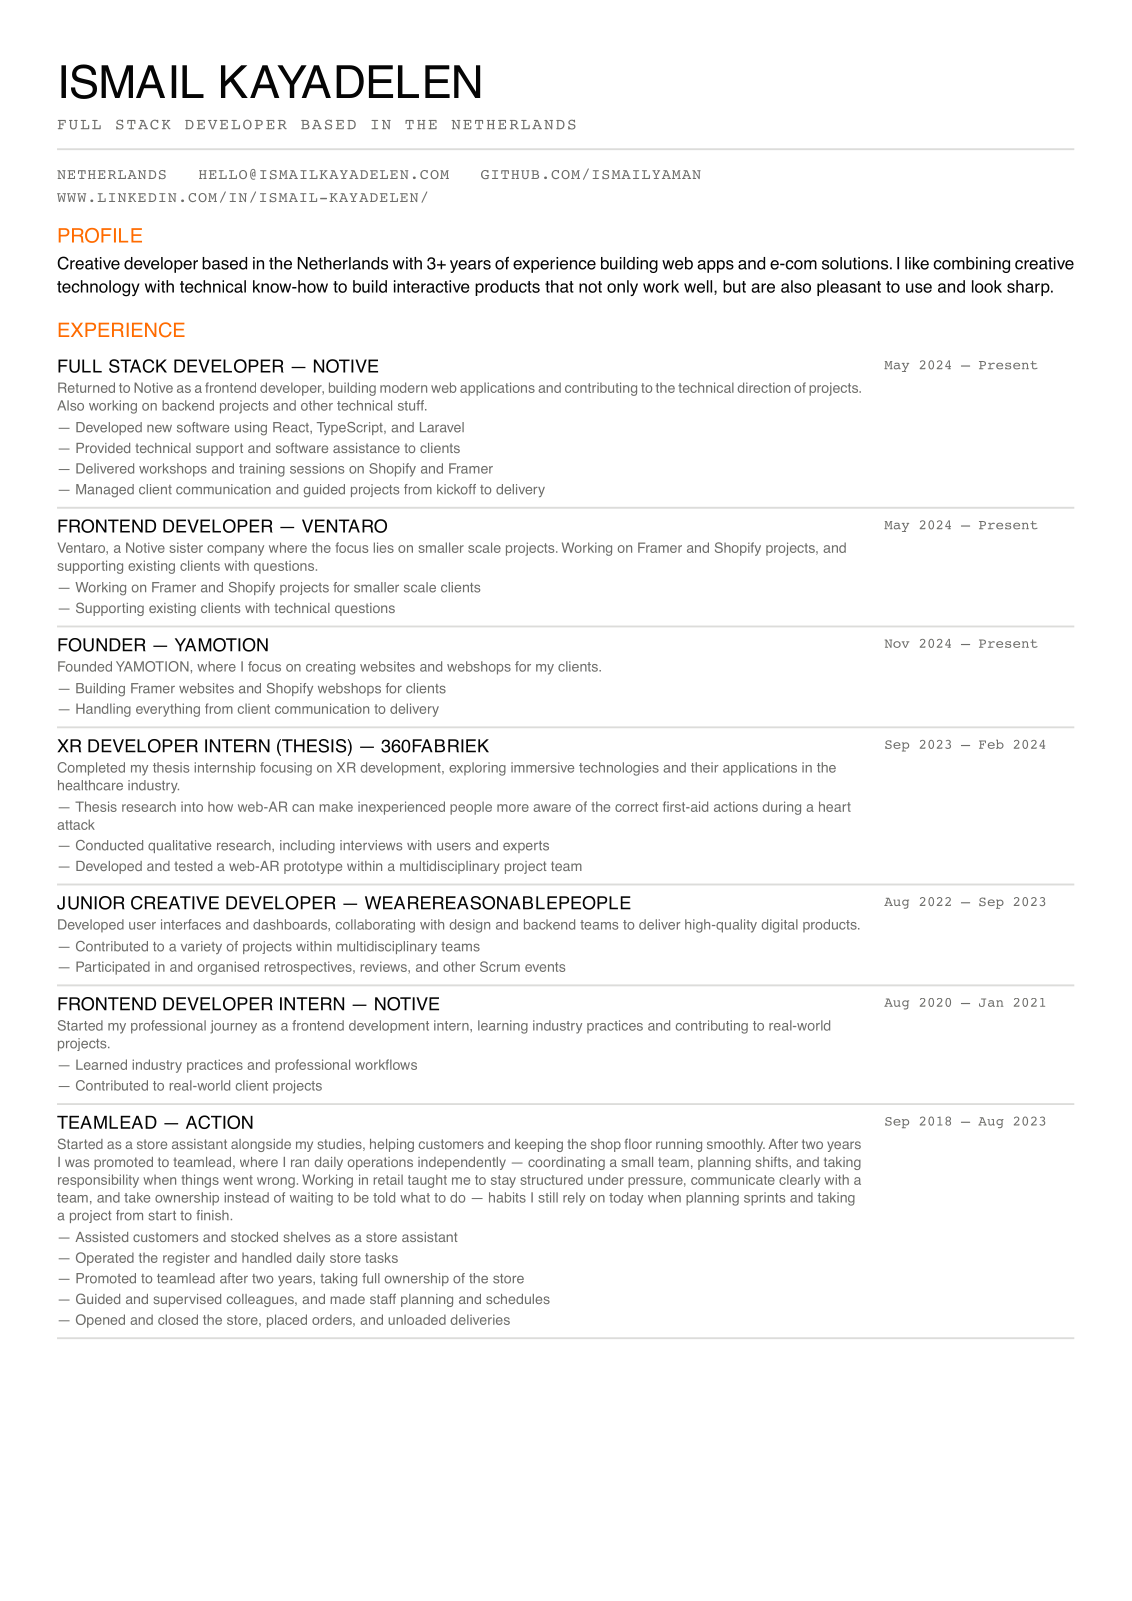
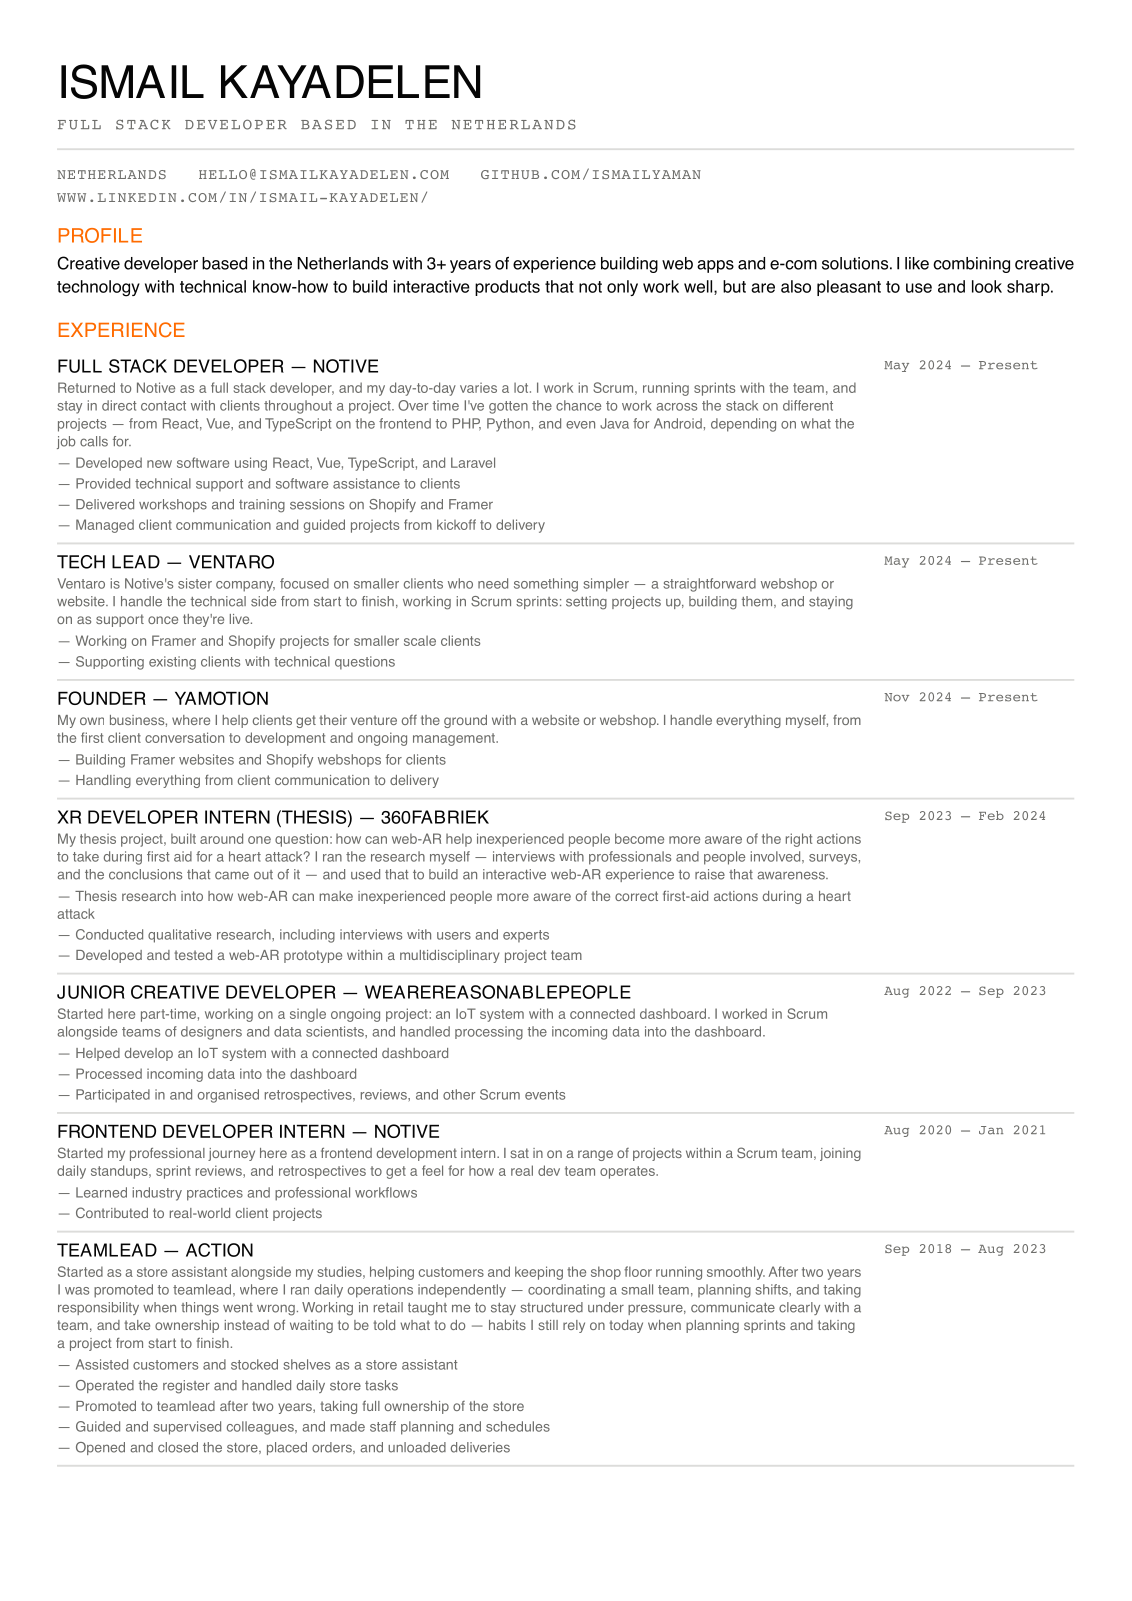
Rewrite job descriptions with richer, first-person summaries
Expand the experience descriptions (Notive, Ventaro, YAMOTION, 360fabriek,
WeAreReasonablePeople, Notive internship) with fuller, more personal
summaries of how each role worked day to day, weaving in Scrum where it
applied to team-based roles. Rename the Ventaro role to Tech Lead, fix a
bullet that contradicted the new WeAreReasonablePeople summary, and add
Vue to the main stack (used at Notive).

diff --git a/lib/data.ts b/lib/data.ts
@@ -322,18 +322,18 @@ export const experience: ExperienceEntry[] = [
     type: "Work",
     year: { en: "May 2024 – Present", nl: "Mei 2024 – Heden" },
     description: {
-      en: "Returned to Notive as a frontend developer, building modern web applications and contributing to the technical direction of projects. Also working on backend projects and other technical stuff.",
-      nl: "Teruggekeerd bij Notive als frontend developer, waar ik moderne webapplicaties bouw en meedenk over de technische richting van projecten. Daarnaast werk ik aan backend-projecten en andere technische zaken.",
+      en: "Returned to Notive as a full stack developer, and my day-to-day varies a lot. I work in Scrum, running sprints with the team, and stay in direct contact with clients throughout a project. Over time I've gotten the chance to work across the stack on different projects — from React, Vue, and TypeScript on the frontend to PHP, Python, and even Java for Android, depending on what the job calls for.",
+      nl: "Teruggekeerd bij Notive als fullstack developer, met werkzaamheden die flink uiteenlopen. Ik werk in Scrum, draai mee in sprints met het team en onderhoud rechtstreeks het contact met klanten tijdens een project. Onderweg heb ik de kans gekregen om op verschillende projecten breed inzetbaar te zijn — van React, Vue en TypeScript aan de voorkant tot PHP, Python en zelfs Java voor Android, afhankelijk van wat het project vraagt.",
     },
     bullets: {
       en: [
-        "Developed new software using React, TypeScript, and Laravel",
+        "Developed new software using React, Vue, TypeScript, and Laravel",
         "Provided technical support and software assistance to clients",
         "Delivered workshops and training sessions on Shopify and Framer",
         "Managed client communication and guided projects from kickoff to delivery",
       ],
       nl: [
-        "Nieuwe software ontwikkeld met React, TypeScript en Laravel",
+        "Nieuwe software ontwikkeld met React, Vue, TypeScript en Laravel",
         "Technische ondersteuning en software support verleend aan klanten",
         "Workshops en trainingen gegeven in Shopify en Framer",
         "Klantcommunicatie onderhouden en projecten begeleid van start tot oplevering",
@@ -341,13 +341,13 @@ export const experience: ExperienceEntry[] = [
     },
   },
   {
-    title: { en: "Frontend Developer", nl: "Frontend Developer" },
+    title: { en: "Tech Lead", nl: "Tech Lead" },
     company: "Ventaro",
     type: "Work",
     year: { en: "May 2024 – Present", nl: "Mei 2024 – Heden" },
     description: {
-      en: "Ventaro, a Notive sister company where the focus lies on smaller scale projects. Working on Framer and Shopify projects, and supporting existing clients with questions.",
-      nl: "Ventaro, een zusterbedrijf van Notive gericht op kleinschaligere projecten. Ik werk aan Framer- en Shopify-projecten en ondersteun bestaande klanten met vragen.",
+      en: "Ventaro is Notive's sister company, focused on smaller clients who need something simpler — a straightforward webshop or website. I handle the technical side from start to finish, working in Scrum sprints: setting projects up, building them, and staying on as support once they're live.",
+      nl: "Ventaro is het zusterbedrijf van Notive, gericht op kleinere klanten die iets simpelers nodig hebben — een overzichtelijke webshop of website. Ik verzorg de technische kant van begin tot eind, werkend in Scrum-sprints: de opzet, de bouw, en het onderhoud en de support zodra het live staat.",
     },
     bullets: {
       en: ["Working on Framer and Shopify projects for smaller scale clients", "Supporting existing clients with technical questions"],
@@ -360,8 +360,8 @@ export const experience: ExperienceEntry[] = [
     type: "Work",
     year: { en: "Nov 2024 – Present", nl: "Nov 2024 – Heden" },
     description: {
-      en: "Founded YAMOTION, where I focus on creating websites and webshops for my clients.",
-      nl: "YAMOTION opgericht, waar ik me richt op het bouwen van websites en webshops voor klanten.",
+      en: "My own business, where I help clients get their venture off the ground with a website or webshop. I handle everything myself, from the first client conversation to development and ongoing management.",
+      nl: "Mijn eigen onderneming, waarmee ik klanten help hun bedrijf van de grond te krijgen met een website of webshop. Ik doe alles zelf, van het eerste klantgesprek tot de ontwikkeling en het beheer erna.",
     },
     bullets: {
       en: ["Building Framer websites and Shopify webshops for clients", "Handling everything from client communication to delivery"],
@@ -374,8 +374,8 @@ export const experience: ExperienceEntry[] = [
     type: "Work",
     year: { en: "Sep 2023 – Feb 2024", nl: "Sep 2023 – Feb 2024" },
     description: {
-      en: "Completed my thesis internship focusing on XR development, exploring immersive technologies and their applications in the healthcare industry.",
-      nl: "Afstudeerstage gericht op XR-development, waarbij ik immersieve technologieën en hun toepassingen binnen de zorgsector heb onderzocht.",
+      en: "My thesis project, built around one question: how can web-AR help inexperienced people become more aware of the right actions to take during first aid for a heart attack? I ran the research myself — interviews with professionals and people involved, surveys, and the conclusions that came out of it — and used that to build an interactive web-AR experience to raise that awareness.",
+      nl: "Mijn afstudeerproject, met als hoofdvraag: hoe kan web-AR onervaren mensen bewuster maken van de juiste handelingen bij eerste hulp tijdens een hartaanval? Het onderzoek heb ik zelf uitgevoerd — interviews met professionals en betrokkenen, enquêtes en de conclusies die daaruit volgden — en op basis daarvan een interactieve web-AR-ervaring gebouwd om die bewustwording te vergroten.",
     },
     bullets: {
       en: [
@@ -396,12 +396,12 @@ export const experience: ExperienceEntry[] = [
     type: "Work",
     year: { en: "Aug 2022 – Sep 2023", nl: "Aug 2022 – Sep 2023" },
     description: {
-      en: "Developed user interfaces and dashboards, collaborating with design and backend teams to deliver high-quality digital products.",
-      nl: "Interfaces en dashboards ontwikkeld, in samenwerking met design- en backendteams om hoogwaardige digitale producten op te leveren.",
+      en: "Started here part-time, working on a single ongoing project: an IoT system with a connected dashboard. I worked in Scrum alongside teams of designers and data scientists, and handled processing the incoming data into the dashboard.",
+      nl: "Hier parttime begonnen en gewerkt aan één doorlopend project: een IoT-systeem met een gekoppeld dashboard. Ik werkte in Scrum samen met teams van designers en data scientists, en verwerkte de binnenkomende data in het dashboard.",
     },
     bullets: {
-      en: ["Contributed to a variety of projects within multidisciplinary teams", "Participated in and organised retrospectives, reviews, and other Scrum events"],
-      nl: ["Meegewerkt aan diverse projecten binnen multidisciplinaire teams", "Retrospectives, reviews en andere Scrum events bijgewoond en (mede) georganiseerd"],
+      en: ["Helped develop an IoT system with a connected dashboard", "Processed incoming data into the dashboard", "Participated in and organised retrospectives, reviews, and other Scrum events"],
+      nl: ["Meegewerkt aan een IoT-systeem met een gekoppeld dashboard", "Binnenkomende data verwerkt in het dashboard", "Retrospectives, reviews en andere Scrum events bijgewoond en (mede) georganiseerd"],
     },
   },
   {
@@ -410,8 +410,8 @@ export const experience: ExperienceEntry[] = [
     type: "Work",
     year: { en: "Aug 2020 – Jan 2021", nl: "Aug 2020 – Jan 2021" },
     description: {
-      en: "Started my professional journey as a frontend development intern, learning industry practices and contributing to real-world projects.",
-      nl: "Startte mijn professionele carrière als frontend development stagiair, waar ik de praktijk leerde kennen en meewerkte aan echte projecten.",
+      en: "Started my professional journey here as a frontend development intern. I sat in on a range of projects within a Scrum team, joining daily standups, sprint reviews, and retrospectives to get a feel for how a real dev team operates.",
+      nl: "Startte hier mijn professionele carrière als frontend development stagiair. Ik liep mee op verschillende projecten binnen een Scrumteam en sloot aan bij dagelijkse standups, sprint reviews en retrospectives om te ervaren hoe een echt ontwikkelteam werkt.",
     },
     bullets: {
       en: ["Learned industry practices and professional workflows", "Contributed to real-world client projects"],
@@ -510,7 +510,7 @@ export const skills: Skill[] = [
   },
 ];
 
-export const mainStack = ["React", "Next.js", "TypeScript", "Laravel", "PHP", "Tailwind", "Git", "Docker", "Vercel", "Python", "Kotlin", "Jetpack Compose"];
+export const mainStack = ["React", "Vue", "Next.js", "TypeScript", "Laravel", "PHP", "Tailwind", "Git", "Docker", "Vercel", "Python", "Kotlin", "Jetpack Compose"];
 
 export const otherTools = ["Figma", "Framer", "Shopify", "Blender", "Jira", "Claude", "Gemini", "ChatGPT"];
 
